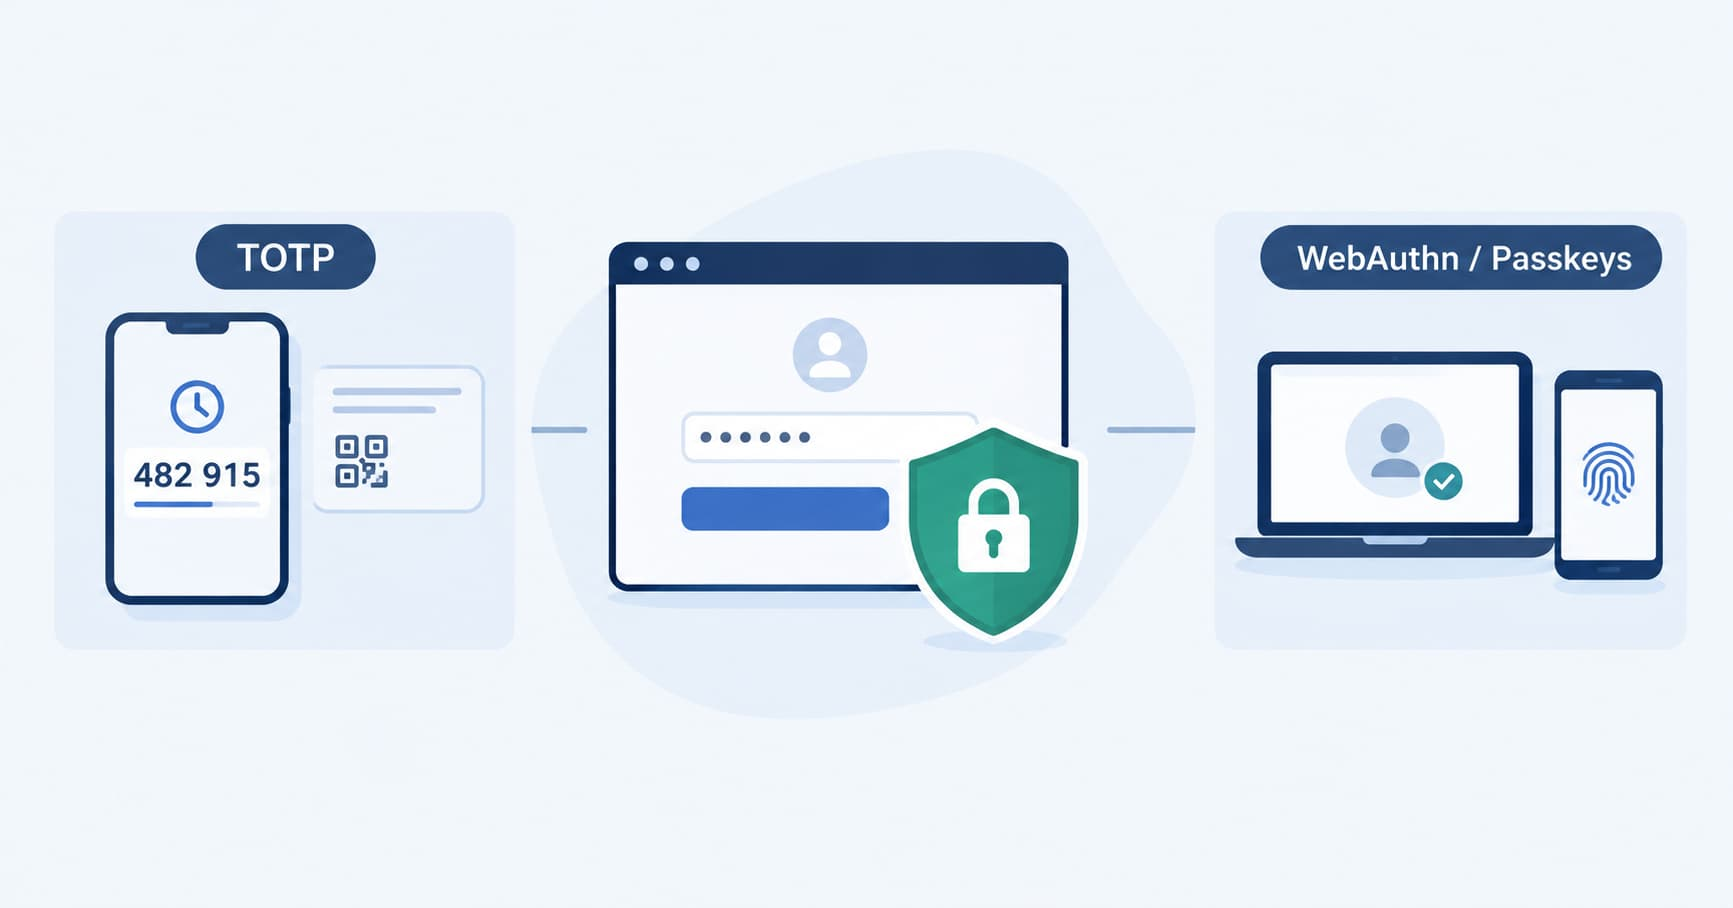
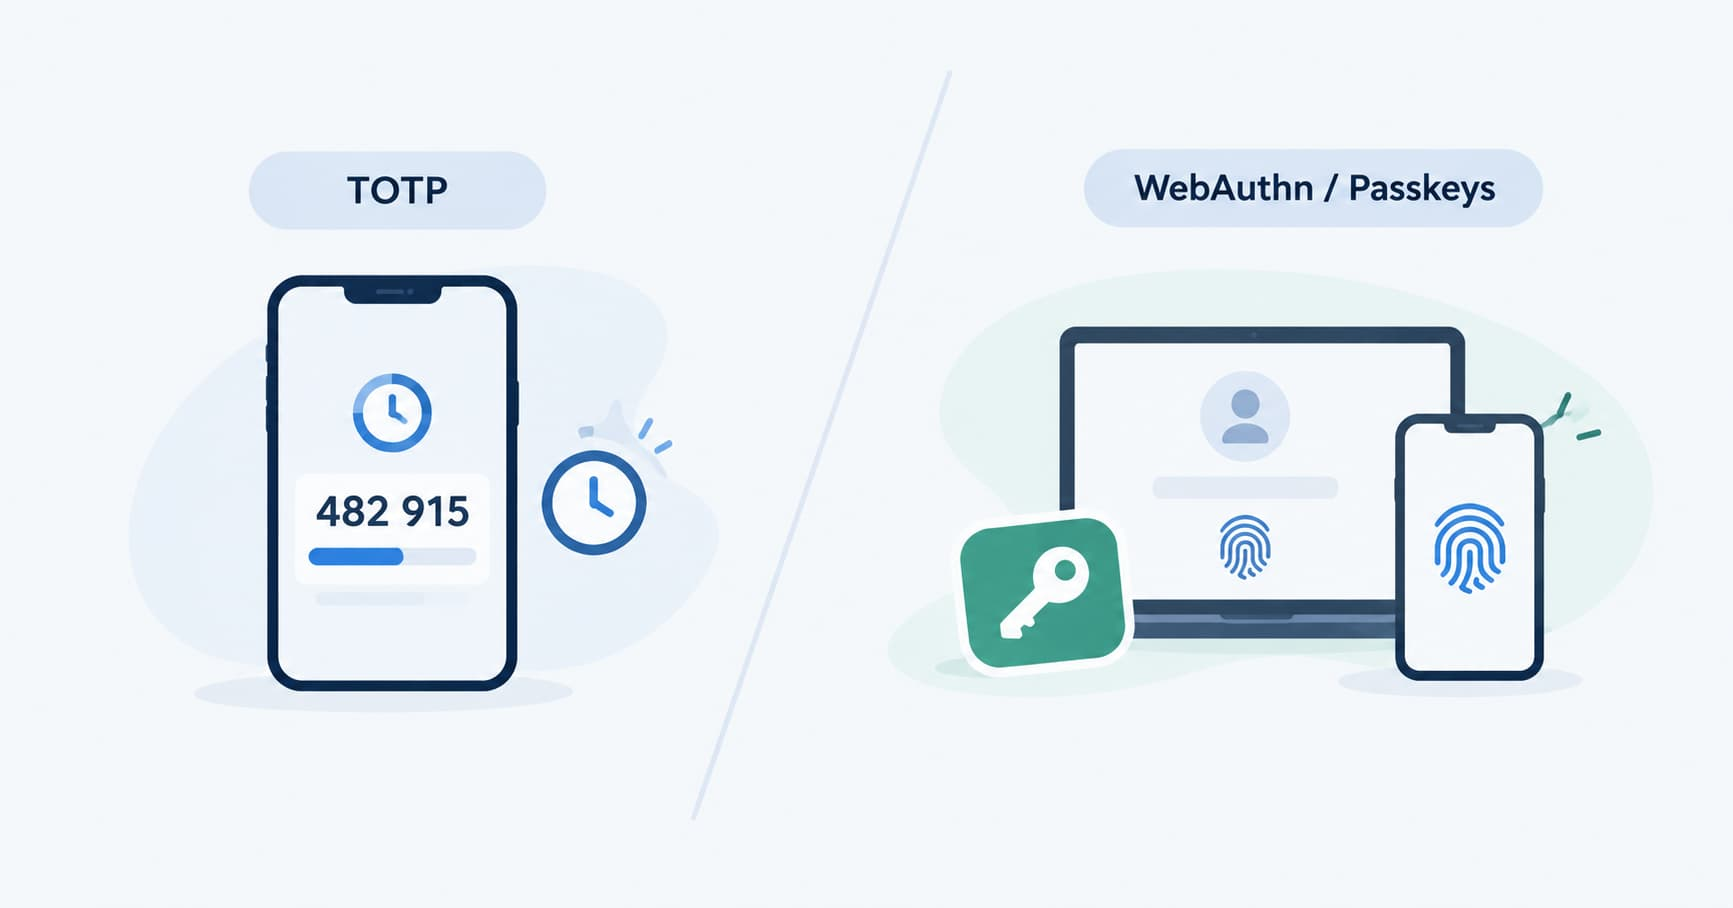
feat(blog): add new authentication comparison image and update layout; remove RSS feed

Changed region(s): [[0.0623, 0.1542, 0.966, 0.7709]]

diff --git a/src/lib/categories.ts b/src/lib/categories.ts
@@ -28,7 +28,9 @@ export const CATEGORIES: Record<CategoryId, CategoryMeta> = {
   mitos: { label: 'MITOS', hue: 55, textClass: 'text-[oklch(78%_0.15_55)]', bgClass: 'bg-[oklch(78%_0.15_55)]' },
 };
 
+const FILTER_IDS: CategoryId[] = ['auth', 'mitos'];
+
 export const CATEGORY_FILTERS = [
   { id: 'todos' as const, label: '--todos', hue: null },
-  ...CATEGORY_IDS.map((id) => ({ id, label: `--${id}`, hue: CATEGORIES[id].hue })),
+  ...FILTER_IDS.map((id) => ({ id, label: `--${id}`, hue: CATEGORIES[id].hue })),
 ];
